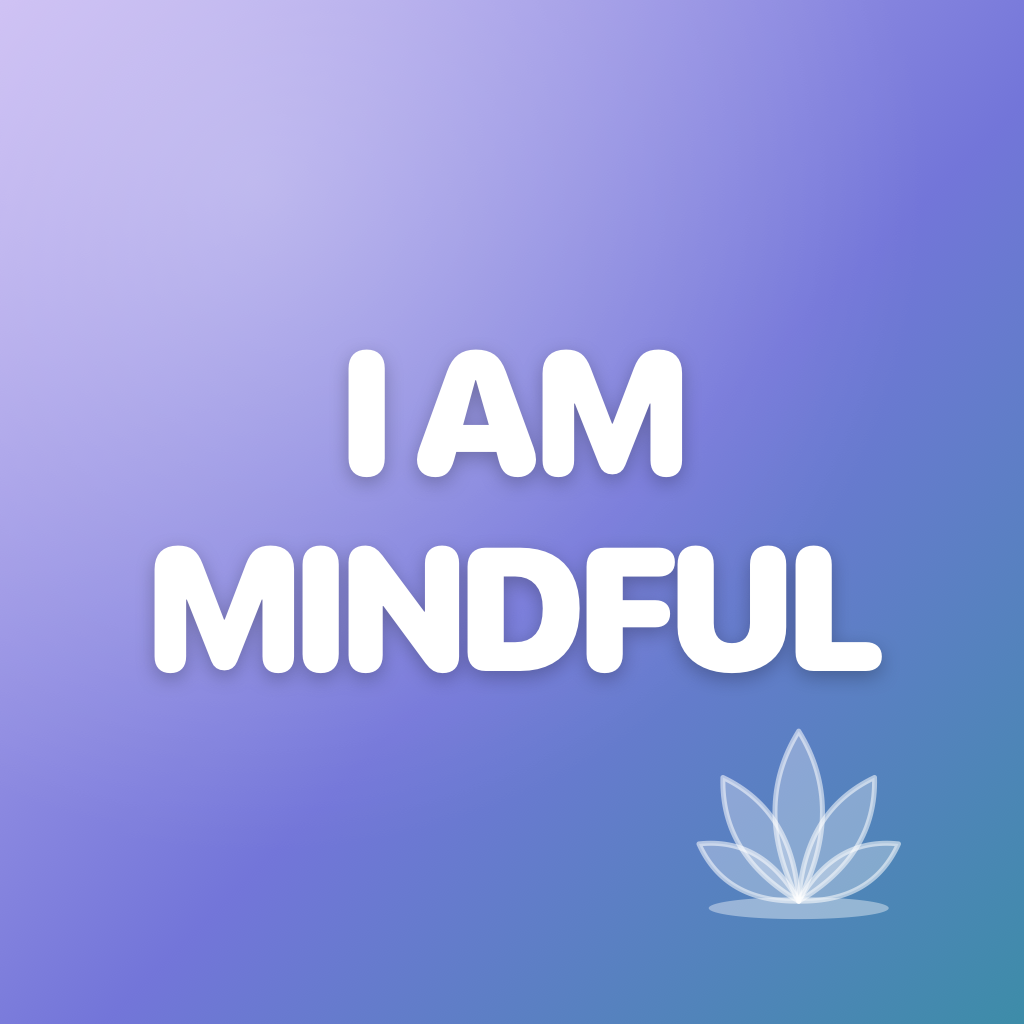
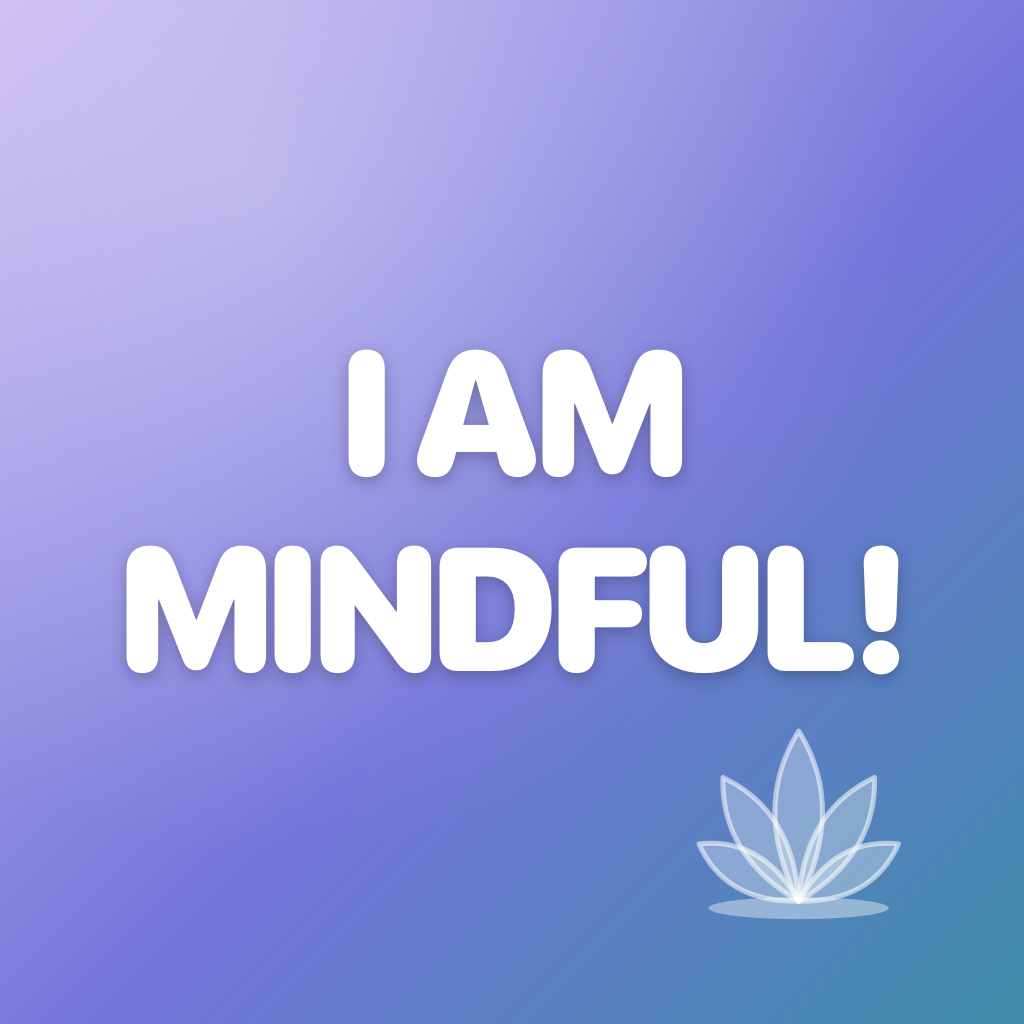
Rename to I Am Mindful! — add exclamation mark everywhere
Updates app display name, icon text (two-line I AM / MINDFUL!), README,
and all three GitHub Pages docs to include the trailing exclamation mark.

Changed region(s): [[0.125, 0.5312, 0.8125, 0.6562], [0.8125, 0.5312, 0.875, 0.6562]]

diff --git a/privacy.html b/privacy.html
@@ -3,8 +3,8 @@
 <head>
 <meta charset="UTF-8">
 <meta name="viewport" content="width=device-width, initial-scale=1.0">
-<title>Privacy &middot; I Am Mindful</title>
-<meta name="description" content="Privacy statement for I Am Mindful &mdash; your diary entries stay on your device.">
+<title>Privacy &middot; I Am Mindful!</title>
+<meta name="description" content="Privacy statement for I Am Mindful! &mdash; your diary entries stay on your device.">
 <link rel="icon" href="icon.png">
 <link rel="apple-touch-icon" href="icon.png">
 <link rel="stylesheet" href="_shared.css">
@@ -13,7 +13,7 @@
 <div class="wrap">
 
 <header class="hero">
-    <a href="index.html"><img class="icon" src="icon.png" alt="I Am Mindful app icon"></a>
+    <a href="index.html"><img class="icon" src="icon.png" alt="I Am Mindful! app icon"></a>
     <h1>Privacy</h1>
     <p class="tagline">Short version: your diary stays on your device.</p>
 </header>
@@ -21,7 +21,7 @@
 <h2>What we store</h2>
 <div class="card">
     <p>
-        I Am Mindful stores the information <em>you</em> enter &mdash; the date of each entry, your 1&ndash;5 ratings for mood, anxiety, sleep, energy, and focus, and any optional notes &mdash; locally on your iPhone using Apple's SwiftData framework. Nothing you type or rate is uploaded to any server we control.
+        I Am Mindful! stores the information <em>you</em> enter &mdash; the date of each entry, your 1&ndash;5 ratings for mood, anxiety, sleep, energy, and focus, and any optional notes &mdash; locally on your iPhone using Apple's SwiftData framework. Nothing you type or rate is uploaded to any server we control.
     </p>
 </div>
 
@@ -36,7 +36,7 @@
 <h2>Anonymized usage analytics</h2>
 <div class="card">
     <p>
-        I Am Mindful sends a small number of anonymous usage signals to <a href="https://telemetrydeck.com" rel="noopener">TelemetryDeck</a>, a privacy-focused analytics service. These signals tell us things like "the app launched", "an entry was created", or "an entry was deleted" &mdash; nothing more. We use them only to understand how the app is used in aggregate and to spot bugs.
+        I Am Mindful! sends a small number of anonymous usage signals to <a href="https://telemetrydeck.com" rel="noopener">TelemetryDeck</a>, a privacy-focused analytics service. These signals tell us things like "the app launched", "an entry was created", or "an entry was deleted" &mdash; nothing more. We use them only to understand how the app is used in aggregate and to spot bugs.
     </p>
     <p>
         We <strong>never</strong> send your rating values, the dates of your entries, or any text you type into notes. The only parameter we attach to an entry signal is a single boolean, <code>hasNotes</code>, indicating whether the entry has any notes &mdash; not what they say.
@@ -48,12 +48,12 @@
 
 <h2>Notifications</h2>
 <p>
-    I Am Mindful does not currently send notifications and does not request notification permission.
+    I Am Mindful! does not currently send notifications and does not request notification permission.
 </p>
 
 <h2>Backups</h2>
 <p>
-    Your I Am Mindful data is included in your standard iCloud or iTunes/Finder iPhone backups, alongside the rest of your apps. Those backups are managed by Apple, not by us.
+    Your I Am Mindful! data is included in your standard iCloud or iTunes/Finder iPhone backups, alongside the rest of your apps. Those backups are managed by Apple, not by us.
 </p>
 
 <h2>Sensitive data</h2>
@@ -63,7 +63,7 @@
 
 <h2>Children</h2>
 <p>
-    I Am Mindful collects no data of any kind and is safe to use at any age. The app contains no advertising, no in-app purchases, and no external links to user-generated content. It is not directed at children under 13, but complies with COPPA by virtue of collecting no personal information.
+    I Am Mindful! collects no data of any kind and is safe to use at any age. The app contains no advertising, no in-app purchases, and no external links to user-generated content. It is not directed at children under 13, but complies with COPPA by virtue of collecting no personal information.
 </p>
 
 <h2>Your rights</h2>
@@ -83,7 +83,7 @@
         <a href="index.html">Home</a> &nbsp;&middot;&nbsp;
         <a href="support.html">Support</a>
     </p>
-    <p>&copy; I Am Mindful</p>
+    <p>&copy; I Am Mindful!</p>
 </footer>
 
 </div>

diff --git a/index.html b/index.html
@@ -3,7 +3,7 @@
 <head>
 <meta charset="UTF-8">
 <meta name="viewport" content="width=device-width, initial-scale=1.0">
-<title>I Am Mindful</title>
+<title>I Am Mindful!</title>
 <meta name="description" content="A simple, local-first iPhone diary for mood, anxiety, sleep, energy, and focus — one day at a time.">
 <link rel="icon" href="icon.png">
 <link rel="apple-touch-icon" href="icon.png">
@@ -13,8 +13,8 @@
 <div class="wrap">
 
 <header class="hero">
-    <img class="icon" src="icon.png" alt="I Am Mindful app icon">
-    <h1>I Am Mindful</h1>
+    <img class="icon" src="icon.png" alt="I Am Mindful! app icon">
+    <h1>I Am Mindful!</h1>
     <p class="tagline">A quick daily diary for how you're feeling &mdash; mood, anxiety, sleep, energy, focus. On your phone. Not in a cloud.</p>
     <p>
         <a class="cta secondary" href="support.html">Support</a>
@@ -42,7 +42,7 @@
 
 <h2>Built openly</h2>
 <p>
-    I Am Mindful is open source. The full implementation, build instructions, and privacy contract are on <a href="https://github.com/trantjustin/IAmMindful">GitHub</a>.
+    I Am Mindful! is open source. The full implementation, build instructions, and privacy contract are on <a href="https://github.com/trantjustin/IAmMindful">GitHub</a>.
 </p>
 
 <hr>
@@ -52,7 +52,7 @@
         <a href="privacy.html">Privacy</a> &nbsp;&middot;&nbsp;
         <a href="https://github.com/trantjustin/IAmMindful">GitHub</a>
     </p>
-    <p>&copy; I Am Mindful</p>
+    <p>&copy; I Am Mindful!</p>
 </footer>
 
 </div>

diff --git a/support.html b/support.html
@@ -3,8 +3,8 @@
 <head>
 <meta charset="UTF-8">
 <meta name="viewport" content="width=device-width, initial-scale=1.0">
-<title>Support &middot; I Am Mindful</title>
-<meta name="description" content="Help and FAQ for the I Am Mindful diary app.">
+<title>Support &middot; I Am Mindful!</title>
+<meta name="description" content="Help and FAQ for the I Am Mindful! diary app.">
 <link rel="icon" href="icon.png">
 <link rel="apple-touch-icon" href="icon.png">
 <link rel="stylesheet" href="_shared.css">
@@ -13,7 +13,7 @@
 <div class="wrap">
 
 <header class="hero">
-    <a href="index.html"><img class="icon" src="icon.png" alt="I Am Mindful app icon"></a>
+    <a href="index.html"><img class="icon" src="icon.png" alt="I Am Mindful! app icon"></a>
     <h1>Support</h1>
     <p class="tagline">Answers to common questions, plus how to get in touch.</p>
 </header>
@@ -86,7 +86,7 @@
 
 <details class="faq">
     <summary>What iPhone and iOS version do I need?</summary>
-    <p>I Am Mindful requires <strong>iOS 17.0 or later</strong> on iPhone. iPad and Apple Watch are not currently supported.</p>
+    <p>I Am Mindful! requires <strong>iOS 17.0 or later</strong> on iPhone. iPad and Apple Watch are not currently supported.</p>
 </details>
 
 <hr>
@@ -108,7 +108,7 @@
         <a href="index.html">Home</a> &nbsp;&middot;&nbsp;
         <a href="privacy.html">Privacy</a>
     </p>
-    <p>&copy; I Am Mindful</p>
+    <p>&copy; I Am Mindful!</p>
 </footer>
 
 </div>
